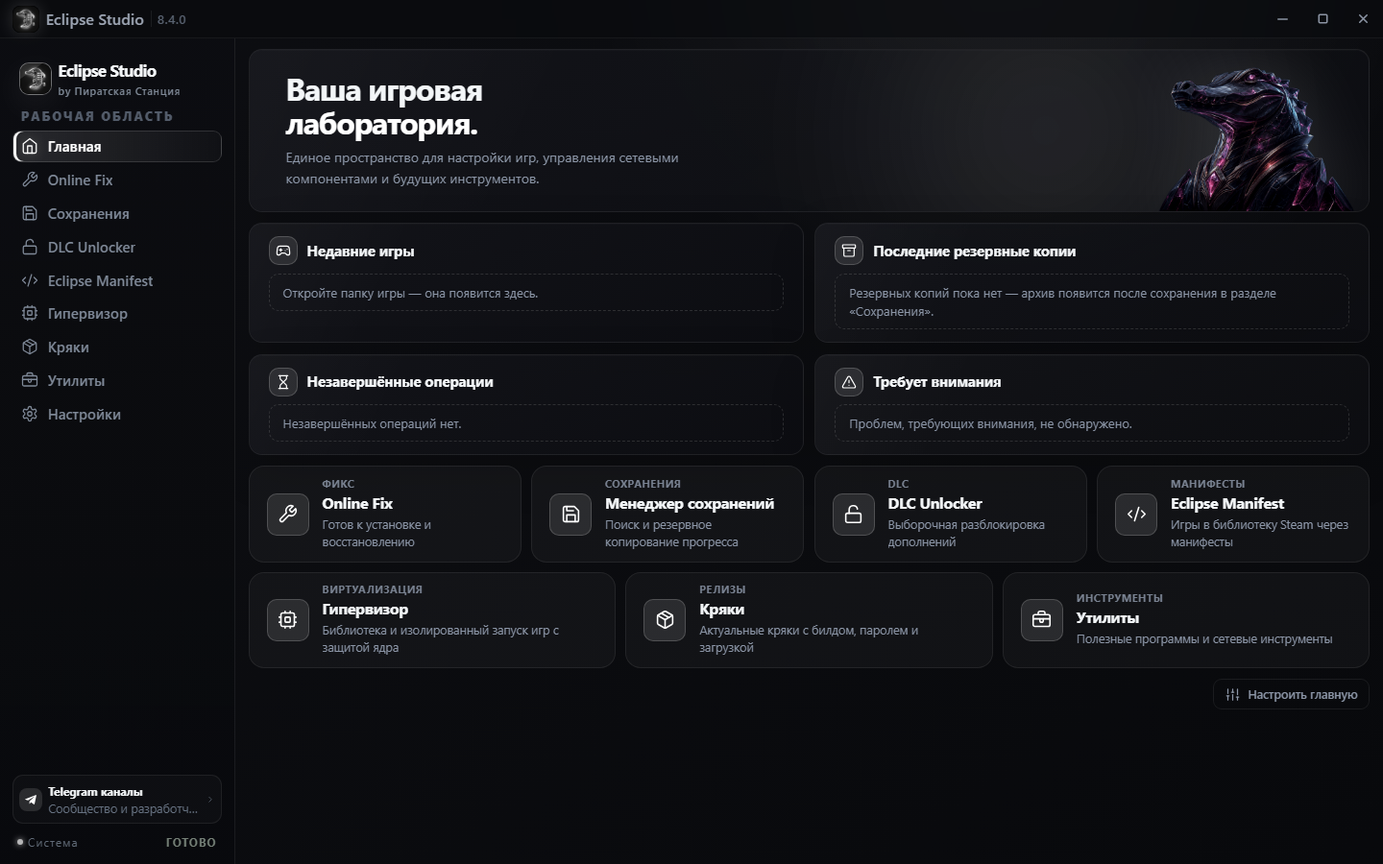
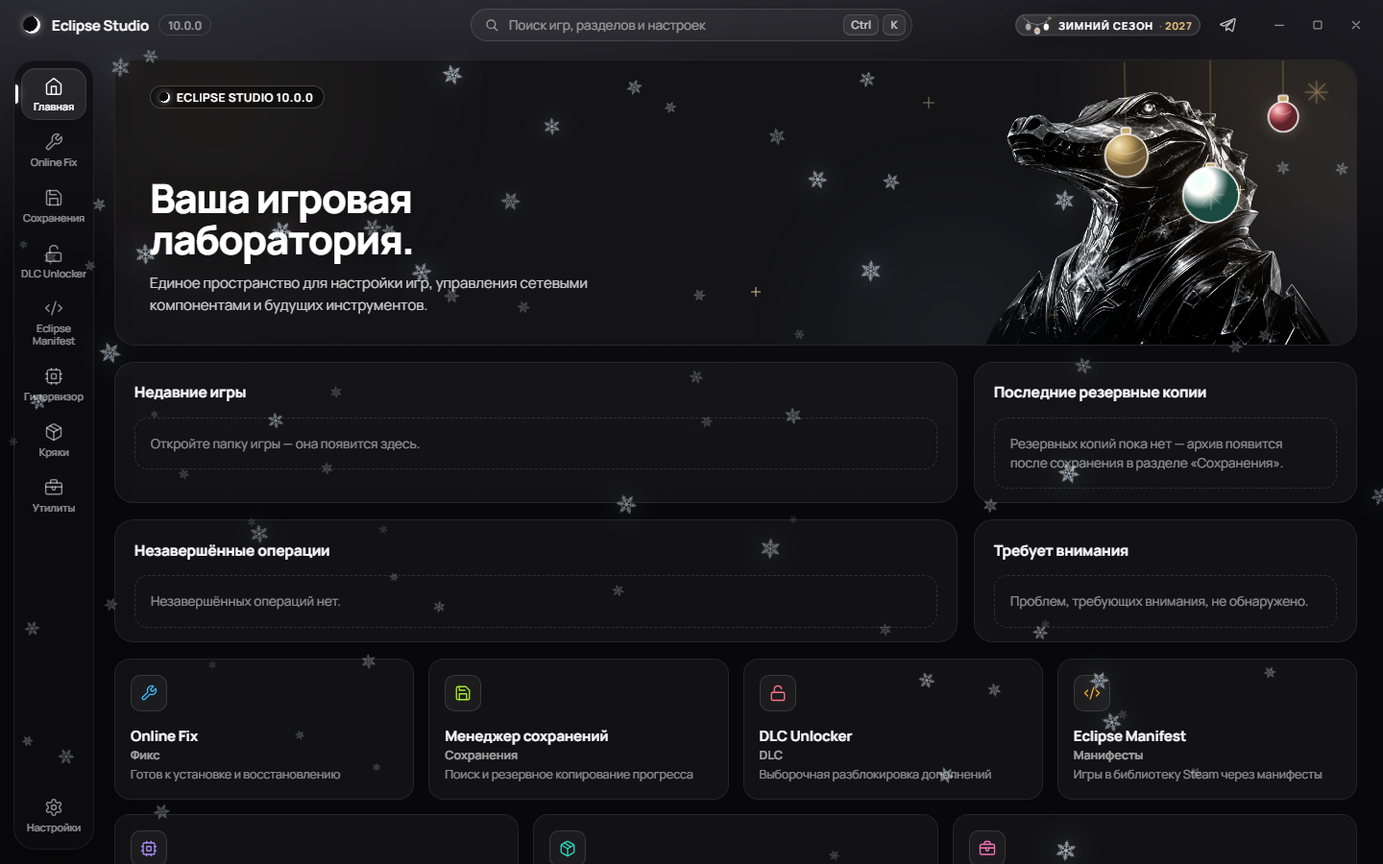
docs: refresh CGS comparison for upstream v5.6.6, re-capture screenshots in Russian
Comparison lists (RU/EN) rewritten from verified facts of both codebases: external CgsUpdater.exe helper, 11 themes/4 accents, open localStorage and the closed Crocodile-HV binary on the original side vs the built-in updater with SHA-256/PE checks, health probe and rollback, 14 themes/12 accents with 4-way panel docking, DPAPI-protected storage, live WMI/SFC/DISM repair log and the open-source Eclipse-HV v2.0.0 (RTCore64 DSE engine) on the Eclipse side.

Showcase versions updated: Eclipse-HV v2.0.0, Millennium plugin v0.5.3.

capture_all_screenshots.js: preset cgs-language=ru before the mock state migration and fail with a timeout if the first-run language dialog is ever open, so screenshots match the pre-v10 Russian UI without the dialog overlay.

Re-captured all 12 module screenshots and compare-eclipse.png (1440x900, Russian UI); compare-gena.png now carries the current upstream v5.6.5 home screen, resized to 1440x900 and optimized to 118 KB.

diff --git a/docs/app.js b/docs/app.js
@@ -912,26 +912,26 @@
       'compare.orig': 'Оригинал',
       'compare.new': 'Eclipse Studio',
       'compare.aria': 'Сравнение: оригинал и Eclipse Studio',
-      'compare.diffOrig1': '<strong>Мастер установки:</strong> скачивание архива в Загрузки с ручной распаковкой или многошаговым диалогом',
-      'compare.diffOrig2': '<strong>Классическая сборка:</strong> исполняемый файл с сопутствующими скриптами и внешними вспомогательными утилитами',
-      'compare.diffOrig3': '<strong>Базовые темы оформления:</strong> фиксированная палитра, стандартная ширина меню и масштабирование до 125%',
-      'compare.diffOrig4': '<strong>Смешанная графика:</strong> сочетание системных эмодзи и растровых иконок интерфейса',
-      'compare.diffOrig5': '<strong>Классический запуск:</strong> стандартный старт приложения во время инициализации компонентов',
-      'compare.diffOrig6': '<strong>Внешние обновления:</strong> переход на страницу релиза на GitHub для ручного скачивания архива',
-      'compare.diffOrig7': '<strong>Фиксированный путь:</strong> загрузка файлов в стандартную системную папку',
-      'compare.diffOrig8': '<strong>Системные элементы:</strong> стандартные браузерные меню select и фиксированная звуковая схема',
-      'compare.diffOrig9': '<strong>Базовая интеграция:</strong> запуск игр через интерфейс лаунчера или простые ярлыки',
-      'compare.diffOrig10': '<strong>Стандартные твики VBS:</strong> пакетные команды восстановления целостности и переключение параметров безопасности',
-      'compare.diffNew1': '<strong>Автоустановка в 1 клик:</strong> умный разбор структуры архивов (ZIP/RAR), распаковка в корень игры, бэкап в .backup_orig и автоочистка',
-      'compare.diffNew2': '<strong>Полный Standalone Portable:</strong> 100% единый автономный EXE-файл без внешних скриптов и сторонних папок',
-      'compare.diffNew3': '<strong>Глубокая кастомизация:</strong> 14 тем оформления (включая OLED), 12 неоновых акцентов, ресайз сайдбара и зум до 140%',
-      'compare.diffNew4': '<strong>Векторный SVG-сет Lucide:</strong> единый чёткий набор векторных иконок и плавные микроанимации элементов управления 60 FPS',
-      'compare.diffNew5': '<strong>Аппаратная заставка:</strong> Canvas-анимация с логотипом, пошаговый статус загрузки и пропуск по клику',
-      'compare.diffNew6': '<strong>Встроенный 1-клик апдейтер:</strong> прямое скачивание в рабочую папку, бесшовный перезапуск, цветной прогресс-бар и сворачиваемый чейнджлог',
-      'compare.diffNew7': '<strong>Гибкая настройка путей:</strong> выбор любой папки загрузок со сбросом по умолчанию в 1 клик',
-      'compare.diffNew8': '<strong>Кастомные меню и звуки:</strong> адаптивные выпадающие меню и конструктор собственных звуковых профилей',
-      'compare.diffNew9': '<strong>Нативные ярлыки игр:</strong> автосоздание ярлыков Windows (.lnk) с иконками через Shell COM API и управление в 1 клик',
-      'compare.diffNew10': '<strong>Диагностика, ремонт и BitLocker:</strong> раздельные тесты и ремонт WMI, SFC, DISM с живым логом, автозащита BitLocker и SecConfig.efi',
+      'compare.diffOrig1': '<strong>Ручная установка:</strong> скачивание архива и распаковка ZIP/RAR с выбором нужной папки внутри и подтверждением шагов',
+      'compare.diffOrig2': '<strong>Внешний helper-апдейтер:</strong> бесшовный перезапуск через извлекаемый CgsUpdater.exe — без пробы здоровья новой версии и автоотката',
+      'compare.diffOrig3': '<strong>11 тем и 4 акцента:</strong> масштаб до 125%, фиксированная ширина сайдбара и статичное расположение панелей',
+      'compare.diffOrig4': '<strong>Смешанная графика:</strong> SVG в меню в сочетании с системными эмодзи и растровыми деталями интерфейса',
+      'compare.diffOrig5': '<strong>Классический запуск:</strong> окно появляется сразу, а инициализация компонентов идёт без визуального статуса',
+      'compare.diffOrig6': '<strong>Системные элементы:</strong> браузерные выпадающие списки select и фиксированная звуковая схема',
+      'compare.diffOrig7': '<strong>Открытое хранилище:</strong> настройки и секреты лежат в localStorage профиля WebView в незашифрованном виде',
+      'compare.diffOrig8': '<strong>Облако одним переключателем:</strong> перенаправление сохранений включается вручную, откат прежней конфигурации — тоже',
+      'compare.diffOrig9': '<strong>Раздельные твики VBS:</strong> команды Fix WMI, DISM и SFC по отдельности — без живого лога и автозащиты BitLocker',
+      'compare.diffOrig10': '<strong>Закрытый лаунчер:</strong> Crocodile-HV поставляется бинарником без исходного кода',
+      'compare.diffNew1': '<strong>Автоустановка в 1 клик:</strong> авторазбор структуры ZIP/RAR и вложенных корней, пароли, бэкап .backup_orig и автоудаление архива',
+      'compare.diffNew2': '<strong>Апдейтер без внешних файлов:</strong> проверка SHA-256 и PE, проба здоровья с автооткатом, отложка на 5 запусков и очистка старых версий',
+      'compare.diffNew3': '<strong>14 тем и 12 неоновых акцентов:</strong> компактный режим, зум 85–140%, перетаскиваемый сайдбар 180–380 px и док панелей в 4 стороны',
+      'compare.diffNew4': '<strong>Векторный SVG-сет Lucide:</strong> единый набор чётких иконок во всех разделах и микроанимации элементов 60 FPS',
+      'compare.diffNew5': '<strong>Аппаратная заставка:</strong> Canvas-анимация с логотипом, пошаговый статус загрузки и мгновенный пропуск по клику',
+      'compare.diffNew6': '<strong>Кастомные меню и звуки:</strong> темы-адаптивные выпадающие меню и конструктор собственных звуковых профилей',
+      'compare.diffNew7': '<strong>DPAPI-хранилище:</strong> состояние и секреты шифруются на уровне Windows, с миграцией из legacy-хранилища',
+      'compare.diffNew8': '<strong>Полный менеджер облака:</strong> выбор папки и режима, до 10 бэкапов конфигурации, миграция данных и обновление компонента в 1 клик',
+      'compare.diffNew9': '<strong>Живой ремонт с гарантиями:</strong> стриминг лога WMI, SFC и DISM, автоприостановка BitLocker и симметричный откат SecConfig.efi',
+      'compare.diffNew10': '<strong>Открытый Eclipse-HV v2.0.0:</strong> DSE-движок на подписанном RTCore64, верифицируемый UEFI-откат и нативный WMI-пробинг — исходники в репозитории',
       'dl.kicker': 'Загрузка',
       'dl.title1': 'Один файл.',
       'dl.title2': 'Portable.',
@@ -1078,26 +1078,26 @@
       'compare.orig': 'Original',
       'compare.new': 'Eclipse Studio',
       'compare.aria': 'Comparison: original vs Eclipse Studio',
-      'compare.diffOrig1': '<strong>Installation wizard:</strong> archive downloaded to Downloads with manual extraction or multi-step wizard',
-      'compare.diffOrig2': '<strong>Classic bundle:</strong> main executable accompanied by external scripts and helper tools',
-      'compare.diffOrig3': '<strong>Base themes:</strong> fixed color palette, fixed sidebar width, and scaling up to 125%',
-      'compare.diffOrig4': '<strong>Mixed graphics:</strong> combination of system emojis and raster interface icons',
-      'compare.diffOrig5': '<strong>Classic startup:</strong> standard window appearance during component initialization',
-      'compare.diffOrig6': '<strong>External updates:</strong> opens GitHub release page in browser for manual archive download',
-      'compare.diffOrig7': '<strong>Fixed download path:</strong> files are saved to the standard system folder',
-      'compare.diffOrig8': '<strong>System elements:</strong> default browser select dropdowns and fixed sound scheme',
-      'compare.diffOrig9': '<strong>Basic integration:</strong> launching games through the launcher UI or standard shortcuts',
-      'compare.diffOrig10': '<strong>Standard VBS tweaks:</strong> batch integrity commands and security toggle scripts',
-      'compare.diffNew1': '<strong>1-Click auto-install:</strong> smart layout detection (ZIP/RAR), root extraction, .backup_orig backup, and auto-cleanup',
-      'compare.diffNew2': '<strong>100% Standalone Portable:</strong> single autonomous EXE without loose scripts or external folders',
-      'compare.diffNew3': '<strong>Deep customization:</strong> 14 themes (including pure OLED), 12 neon accents, resizable sidebar, and zoom up to 140%',
-      'compare.diffNew4': '<strong>Vector Lucide SVG icons:</strong> razor-sharp rendering on any screen with hardware 60 FPS micro-animations',
-      'compare.diffNew5': '<strong>Hardware Canvas splash:</strong> animated logo intro, subsystem initialization log, and instant click-to-skip',
-      'compare.diffNew6': '<strong>In-app 1-Click Auto-Updater:</strong> direct download to app folder, seamless restart, theme-colored progress bar, and collapsible changelog',
-      'compare.diffNew7': '<strong>Flexible path management:</strong> select any download directory with 1-click reset to defaults',
-      'compare.diffNew8': '<strong>Custom menus & audio:</strong> theme-adaptive custom dropdowns and built-in audio profile designer',
-      'compare.diffNew9': '<strong>Native game shortcuts:</strong> auto-creation of Windows Shell .lnk shortcuts with icons via COM API and 1-click controls',
-      'compare.diffNew10': '<strong>Diagnostics, repair & BitLocker:</strong> separated diagnostic/repair for WMI, SFC, DISM with live log, BitLocker protection & SecConfig.efi',
+      'compare.diffOrig1': '<strong>Manual installation:</strong> archive download and ZIP/RAR extraction with manual folder selection inside the archive and step confirmation',
+      'compare.diffOrig2': '<strong>External updater helper:</strong> seamless restart via an extracted CgsUpdater.exe — no health probe of the new build and no automatic rollback',
+      'compare.diffOrig3': '<strong>11 themes and 4 accents:</strong> scaling up to 125%, fixed sidebar width and static panel placement',
+      'compare.diffOrig4': '<strong>Mixed graphics:</strong> menu SVG combined with system emojis and raster interface details',
+      'compare.diffOrig5': '<strong>Classic startup:</strong> the window appears instantly while component initialization shows no visual status',
+      'compare.diffOrig6': '<strong>System elements:</strong> default browser select dropdowns and a fixed sound scheme',
+      'compare.diffOrig7': '<strong>Open storage:</strong> settings and secrets sit unencrypted in the WebView profile localStorage',
+      'compare.diffOrig8': '<strong>One-switch cloud:</strong> save redirection is enabled manually and the previous configuration is restored the same way',
+      'compare.diffOrig9': '<strong>Separate VBS tweaks:</strong> Fix WMI, DISM and SFC commands run individually — no live log and no BitLocker protection',
+      'compare.diffOrig10': '<strong>Closed launcher:</strong> Crocodile-HV ships as a binary without source code',
+      'compare.diffNew1': '<strong>1-Click auto-install:</strong> smart ZIP/RAR layout and nested-root detection, password support, .backup_orig backup and archive auto-cleanup',
+      'compare.diffNew2': '<strong>Updater without extra files:</strong> SHA-256 and PE verification, health probe with automatic rollback, 5-launch snooze and old-version cleanup',
+      'compare.diffNew3': '<strong>14 themes and 12 neon accents:</strong> compact mode, 85–140% zoom, draggable 180–380 px sidebar and 4-way panel docking',
+      'compare.diffNew4': '<strong>Vector Lucide SVG set:</strong> one sharp icon family across every view with 60 FPS micro-animations',
+      'compare.diffNew5': '<strong>Hardware Canvas splash:</strong> animated logo, step-by-step startup status and instant click-to-skip',
+      'compare.diffNew6': '<strong>Custom menus and audio:</strong> theme-adaptive dropdowns and a designer for your own sound profiles',
+      'compare.diffNew7': '<strong>DPAPI-protected storage:</strong> state and secrets are encrypted at the Windows level, with legacy migration',
+      'compare.diffNew8': '<strong>Full cloud manager:</strong> folder and mode selection, up to 10 configuration backups, data migration and 1-click component updates',
+      'compare.diffNew9': '<strong>Live repair with guarantees:</strong> real-time WMI, SFC and DISM log streaming, automatic BitLocker suspension and symmetric SecConfig.efi rollback',
+      'compare.diffNew10': '<strong>Open-source Eclipse-HV v2.0.0:</strong> DSE engine on the signed RTCore64 driver, verifiable UEFI rollback and native WMI probing — sources in the repository',
       'dl.kicker': 'Download',
       'dl.title1': 'Single file.',
       'dl.title2': 'Portable.',

diff --git a/docs/index.html b/docs/index.html
@@ -187,11 +187,11 @@
             <li class="sc-item" data-img="./screenshots/DLC_Unlocker.png" data-title="DLC Unlocker" data-desc="Выборочная разблокировка дополнений Steam через SmokeAPI и CreamAPI.">
               <span class="sc-num mono">04</span><div><h3>DLC Unlocker</h3><p>Выборочно — через SmokeAPI и CreamAPI.</p></div>
             </li>
-            <li class="sc-item" data-img="./screenshots/Eclipse_Manifest.png" data-title="Eclipse Manifest и манифесты" data-desc="Добавление игр в библиотеку Steam через Ryuu и HubCap, плагин Millennium v0.5.2, две версии OpenSteamTool и синхронизация.">
+            <li class="sc-item" data-img="./screenshots/Eclipse_Manifest.png" data-title="Eclipse Manifest и манифесты" data-desc="Добавление игр в библиотеку Steam через Ryuu и HubCap, плагин Millennium v0.5.3, две версии OpenSteamTool и синхронизация.">
               <span class="sc-num mono">05</span><div><h3>Eclipse Manifest</h3><p>Манифесты Steam, плагин Millennium и OpenSteamTool v1/v2.</p></div>
             </li>
-            <li class="sc-item" data-img="./screenshots/Гипервизор.png" data-title="Гипервизор: Eclipse-HV" data-desc="Автономный лаунчер Eclipse-HV v1.1.0: запуск игр без BAT-скриптов, обход DSE в памяти и поддержка AVX-512/Zen 4.">
-              <span class="sc-num mono">06</span><div><h3>Гипервизор</h3><p>Автономный лаунчер Eclipse-HV v1.1.0 с обходом DSE и поддержкой AVX-512 / Zen 4 / Intel 12+.</p></div>
+            <li class="sc-item" data-img="./screenshots/Гипервизор.png" data-title="Гипервизор: Eclipse-HV" data-desc="Автономный лаунчер Eclipse-HV v2.0.0: DSE-движок на подписанном RTCore64, запуск игр без BAT-скриптов и поддержка AVX-512/Zen 4.">
+              <span class="sc-num mono">06</span><div><h3>Гипервизор</h3><p>Автономный лаунчер Eclipse-HV v2.0.0 с DSE-движком RTCore64 и поддержкой AVX-512 / Zen 4 / Intel 12+.</p></div>
             </li>
             <li class="sc-item" data-img="./screenshots/Античиты.png" data-title="Гипервизор: античиты" data-desc="Аудит служб, драйверов и остаточных файлов 12 популярных античитов.">
               <span class="sc-num mono">07</span><div><h3>Античиты</h3><p>Поиск и удаление античитов.</p></div>
@@ -257,31 +257,31 @@
           <div class="diff-col reveal">
             <span class="mono diff-k" data-i18n="compare.orig">Оригинал</span>
             <ul>
-              <li data-i18n="compare.diffOrig1"><strong>Мастер установки:</strong> скачивание архива в Загрузки с ручной распаковкой или многошаговым диалогом</li>
-              <li data-i18n="compare.diffOrig2"><strong>Классическая сборка:</strong> исполняемый файл с сопутствующими скриптами и внешними вспомогательными утилитами</li>
-              <li data-i18n="compare.diffOrig3"><strong>Базовые темы оформления:</strong> фиксированная палитра, стандартная ширина меню и масштабирование до 125%</li>
-              <li data-i18n="compare.diffOrig4"><strong>Смешанная графика:</strong> сочетание системных эмодзи и растровых иконок интерфейса</li>
-              <li data-i18n="compare.diffOrig5"><strong>Классический запуск:</strong> стандартный старт приложения во время инициализации компонентов</li>
-              <li data-i18n="compare.diffOrig6"><strong>Внешние обновления:</strong> переход на страницу релиза на GitHub для ручного скачивания архива</li>
-              <li data-i18n="compare.diffOrig7"><strong>Фиксированный путь:</strong> загрузка файлов в стандартную системную папку</li>
-              <li data-i18n="compare.diffOrig8"><strong>Системные элементы:</strong> стандартные браузерные меню select и фиксированная звуковая схема</li>
-              <li data-i18n="compare.diffOrig9"><strong>Базовая интеграция:</strong> запуск игр через интерфейс лаунчера или простые ярлыки</li>
-              <li data-i18n="compare.diffOrig10"><strong>Стандартные твики VBS:</strong> пакетные команды восстановления целостности и переключение параметров безопасности</li>
+              <li data-i18n="compare.diffOrig1"><strong>Ручная установка:</strong> скачивание архива и распаковка ZIP/RAR с выбором нужной папки внутри и подтверждением шагов</li>
+              <li data-i18n="compare.diffOrig2"><strong>Внешний helper-апдейтер:</strong> бесшовный перезапуск через извлекаемый CgsUpdater.exe — без пробы здоровья новой версии и автоотката</li>
+              <li data-i18n="compare.diffOrig3"><strong>11 тем и 4 акцента:</strong> масштаб до 125%, фиксированная ширина сайдбара и статичное расположение панелей</li>
+              <li data-i18n="compare.diffOrig4"><strong>Смешанная графика:</strong> SVG в меню в сочетании с системными эмодзи и растровыми деталями интерфейса</li>
+              <li data-i18n="compare.diffOrig5"><strong>Классический запуск:</strong> окно появляется сразу, а инициализация компонентов идёт без визуального статуса</li>
+              <li data-i18n="compare.diffOrig6"><strong>Системные элементы:</strong> браузерные выпадающие списки select и фиксированная звуковая схема</li>
+              <li data-i18n="compare.diffOrig7"><strong>Открытое хранилище:</strong> настройки и секреты лежат в localStorage профиля WebView в незашифрованном виде</li>
+              <li data-i18n="compare.diffOrig8"><strong>Облако одним переключателем:</strong> перенаправление сохранений включается вручную, откат прежней конфигурации — тоже</li>
+              <li data-i18n="compare.diffOrig9"><strong>Раздельные твики VBS:</strong> команды Fix WMI, DISM и SFC по отдельности — без живого лога и автозащиты BitLocker</li>
+              <li data-i18n="compare.diffOrig10"><strong>Закрытый лаунчер:</strong> Crocodile-HV поставляется бинарником без исходного кода</li>
             </ul>
           </div>
           <div class="diff-col is-new reveal" style="--d:1">
             <span class="mono diff-k" data-i18n="compare.new">Eclipse Studio</span>
             <ul>
-              <li data-i18n="compare.diffNew1"><strong>Автоустановка в 1 клик:</strong> умный разбор структуры архивов (ZIP/RAR), распаковка в корень игры, бэкап в .backup_orig и автоочистка</li>
-              <li data-i18n="compare.diffNew2"><strong>Полный Standalone Portable:</strong> 100% единый автономный EXE-файл без внешних скриптов и сторонних папок</li>
-              <li data-i18n="compare.diffNew3"><strong>Глубокая кастомизация:</strong> 14 тем оформления (включая OLED), 12 неоновых акцентов, ресайз сайдбара и зум до 140%</li>
-              <li data-i18n="compare.diffNew4"><strong>Векторный SVG-сет Lucide:</strong> единый чёткий набор векторных иконок и плавные микроанимации элементов управления 60 FPS</li>
-              <li data-i18n="compare.diffNew5"><strong>Аппаратная заставка:</strong> Canvas-анимация с логотипом, пошаговый статус загрузки и пропуск по клику</li>
-              <li data-i18n="compare.diffNew6"><strong>Встроенный 1-клик апдейтер:</strong> прямое скачивание в рабочую папку, бесшовный перезапуск, цветной прогресс-бар и сворачиваемый чейнджлог</li>
-              <li data-i18n="compare.diffNew7"><strong>Гибкая настройка путей:</strong> выбор любой папки загрузок со сбросом по умолчанию в 1 клик</li>
-              <li data-i18n="compare.diffNew8"><strong>Кастомные меню и звуки:</strong> адаптивные выпадающие меню и конструктор собственных звуковых профилей</li>
-              <li data-i18n="compare.diffNew9"><strong>Нативные ярлыки игр:</strong> автосоздание ярлыков Windows (.lnk) с иконками через Shell COM API и управление в 1 клик</li>
-              <li data-i18n="compare.diffNew10"><strong>Диагностика, ремонт и BitLocker:</strong> раздельные тесты и ремонт WMI, SFC, DISM с живым логом, автозащита BitLocker и SecConfig.efi</li>
+              <li data-i18n="compare.diffNew1"><strong>Автоустановка в 1 клик:</strong> авторазбор структуры ZIP/RAR и вложенных корней, пароли, бэкап .backup_orig и автоудаление архива</li>
+              <li data-i18n="compare.diffNew2"><strong>Апдейтер без внешних файлов:</strong> проверка SHA-256 и PE, проба здоровья с автооткатом, отложка на 5 запусков и очистка старых версий</li>
+              <li data-i18n="compare.diffNew3"><strong>14 тем и 12 неоновых акцентов:</strong> компактный режим, зум 85–140%, перетаскиваемый сайдбар 180–380 px и док панелей в 4 стороны</li>
+              <li data-i18n="compare.diffNew4"><strong>Векторный SVG-сет Lucide:</strong> единый набор чётких иконок во всех разделах и микроанимации элементов 60 FPS</li>
+              <li data-i18n="compare.diffNew5"><strong>Аппаратная заставка:</strong> Canvas-анимация с логотипом, пошаговый статус загрузки и мгновенный пропуск по клику</li>
+              <li data-i18n="compare.diffNew6"><strong>Кастомные меню и звуки:</strong> темы-адаптивные выпадающие меню и конструктор собственных звуковых профилей</li>
+              <li data-i18n="compare.diffNew7"><strong>DPAPI-хранилище:</strong> состояние и секреты шифруются на уровне Windows, с миграцией из legacy-хранилища</li>
+              <li data-i18n="compare.diffNew8"><strong>Полный менеджер облака:</strong> выбор папки и режима, до 10 бэкапов конфигурации, миграция данных и обновление компонента в 1 клик</li>
+              <li data-i18n="compare.diffNew9"><strong>Живой ремонт с гарантиями:</strong> стриминг лога WMI, SFC и DISM, автоприостановка BitLocker и симметричный откат SecConfig.efi</li>
+              <li data-i18n="compare.diffNew10"><strong>Открытый Eclipse-HV v2.0.0:</strong> DSE-движок на подписанном RTCore64, верифицируемый UEFI-откат и нативный WMI-пробинг — исходники в репозитории</li>
             </ul>
           </div>
         </div>

diff --git a/scripts/capture_all_screenshots.js b/scripts/capture_all_screenshots.js
@@ -147,12 +147,25 @@ async function main() {
   // Тот же мок и те же IPC-контракты, что в npm test
   await page.evaluateOnNewDocument(require("./dev-mock.cjs")(fullCatalogFiles));
 
+  // Первый запуск имитируем уже выбранным русским языком:
+  await page.evaluateOnNewDocument(() => {
+    try {
+      if (!sessionStorage.getItem("__native_state")) localStorage.setItem("cgs-language", "ru");
+    } catch (_) {}
+  });
+
   const baseUrl = `http://127.0.0.1:${port}/index.html`;
 
   // Главная
   console.log("Снятие скриншота: Главная.png");
   await page.goto(`${baseUrl}?view=home`);
   await page.waitForFunction(() => document.documentElement.dataset.ready === "true");
+  // Диалог выбора языка не должен открываться: язык задан заранее.
+  // Если защита сломается — скрипт упадёт с таймаутом, а не снимет скриншот с оверлеем.
+  await page.waitForFunction(() => {
+    const dialog = document.getElementById("first-language-dialog");
+    return !dialog || !dialog.open;
+  });
   await sleep(800);
   const homePath = path.join(SCREENSHOTS_DIR, "Главная.png");
   await page.screenshot({ path: homePath });
